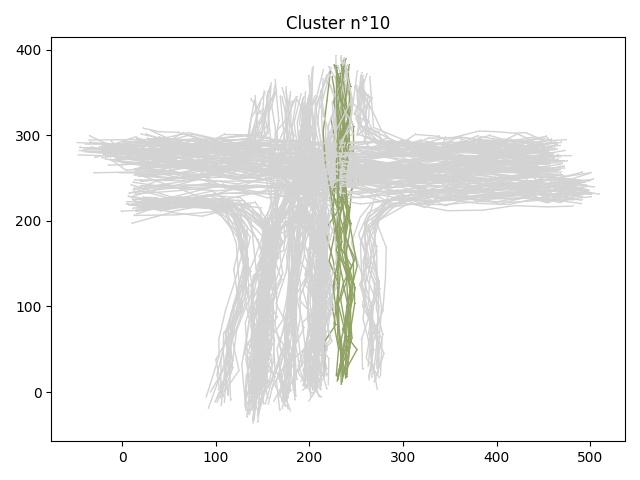
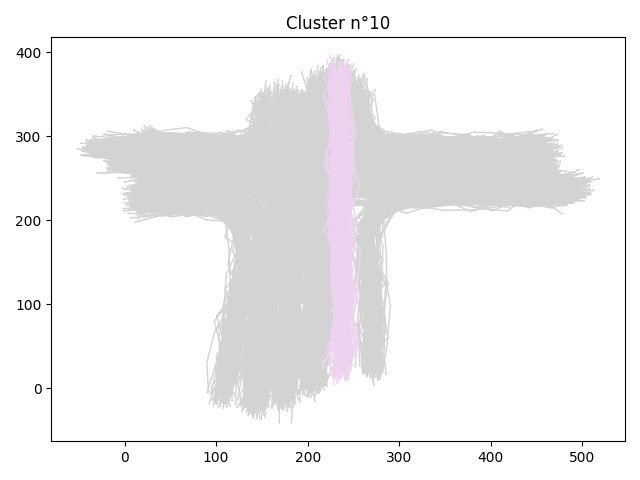
Add mean path, Fix visualizzation

diff --git a/main.py b/main.py
@@ -9,6 +9,7 @@ from tqdm import tqdm
 import argparse
 import numba
 import numpy
+from math import sqrt
 
 
 @numba.jit(nopython=True, fastmath=True)
@@ -26,7 +27,7 @@ def euclidean_distance(a, b):
     val = 0.
     for i in range(a.shape[0]):
         val += (a[i] - b[i]) ** 2
-    return val ** (1 / 2)
+    return sqrt(val)
 
 
 @numba.jit(nopython=True, fastmath=True)
@@ -270,6 +271,40 @@ def show_tracks(file_path, n=0, save_pics=True):
     plt.close()
 
 
+def mean_trajectories(tracks, labels):
+    # type: (np.ndarray, np.ndarray) -> list
+    """
+    Compute mean path from trajectories of each cluster
+    >> NOTE: To compute mean trajectories must be of the same length
+
+    :param tracks:  Trajectories
+    :param labels:  Cluster-ids
+    :return:  Mean paths
+    """
+
+    tracks_mean = []
+
+    # Compute mean trajectories
+    for i in range(max(labels)):
+        idxs = [np.where(labels == i)]
+        traj = np.mean(np.array(tracks)[np.squeeze(idxs)], axis=0)
+        tracks_mean.append(traj)
+
+    # Plot
+    fig = plt.figure()
+    plt.title('Most frequent trajectories')
+    for t in tracks_mean:
+        xs, ys = t[0], t[1]
+        color = (randint(64, 255) / 255, randint(64, 255) / 255, randint(64, 255) / 255)
+        plt.plot(xs, ys, ',-', color=color, linewidth=2)
+
+    fig.show()
+    fig.savefig("./pics/frequent_paths.jpg")
+    plt.close()
+
+    return tracks_mean
+
+
 def show_tracks_labels(file_path, labels, n=17, save_pics=True):
     # type: (str, np.ndarray, int, bool) -> None
     """
@@ -281,22 +316,24 @@ def show_tracks_labels(file_path, labels, n=17, save_pics=True):
     :return: None
     """
 
-    colors = dict()
+    color = (randint(64, 255) /255, randint(64, 255)/255, randint(64, 255)/255)
     mat = scipy.io.loadmat(file_path)
     labels = np.squeeze(labels)
 
-    for i in range(0, labels.max() +1):
-        if i == n:
-            colors[str(i)] = (randint(64, 255) /255, randint(64, 255)/255, randint(64, 255)/255)
-        else:
-            colors[str(i)] = (211 /255, 211 /255, 211 /255)
+    it_gray_paths = ((track[0], label) for track, label in zip(mat['tracks'], labels) if label != n)
+    it_color_paths = ((track[0], label) for track, label in zip(mat['tracks'], labels) if label == n)
 
     fig = plt.figure()
     plt.title('Cluster n°' + str(n))
-    for track, label in zip(mat['tracks'], labels):
-        track = track[0]
+
+    for track, label in it_gray_paths:
         xs, ys = track[0], track[1]
-        plt.plot(xs, ys, ',-', color=colors[str(label)], linewidth=1)
+        plt.plot(xs, ys, ',-', color='lightgray', linewidth=1)
+
+    for track, label in it_color_paths:
+        xs, ys = track[0], track[1]
+        plt.plot(xs, ys, ',-', color=color, linewidth=1)
+
     fig.show()
     if save_pics:
         fig.savefig("./pics/cluster_n%d.jpg" % n)
@@ -363,6 +400,9 @@ def main(args):
     print("Completeness: %0.3f" % metrics.completeness_score(np.squeeze(gt), labels))
     print("V-measure: %0.3f" % metrics.v_measure_score(np.squeeze(gt), labels))
 
+    if args.fixed_length != 0:
+        mean_trajectories(np.array(tracks), labels)
+
     for i in range(0, labels.max() +1):
         show_tracks_labels(args.data, labels, i, save_pics=args.save_pics)
 
@@ -373,15 +413,15 @@ if __name__ == '__main__':
     parser.add_argument('--data', type=str,
                         help='File containing data', default='ds/cross.mat')
     parser.add_argument('--num_samples', type=int,
-                        help='Use n_samples from data', default=300)
+                        help='Use n_samples from data (0: use all data)', default=0)
     parser.add_argument('--method', type=str,
-                        help='Clustering method', default='kmeans')
+                        help='Clustering method ( kmeans | spectral )', default='kmeans')
     parser.add_argument('--n_cluster', type=int,
                         help='Number of clusters', default=15)
     parser.add_argument('--fixed_length', type=int,
                         help='Resample trajectories to fixed length', default=100)
     parser.add_argument('--flow', type=bool,
-                        help='Convert trajectories to flow before clustering', default=False)
+                        help='Convert trajectories to flow before clustering', default=True)
     parser.add_argument('--flow_th', type=float,
                         help='Filter flow using a threeshold', default=0.)
     parser.add_argument('--distance_function', type=str,
@@ -389,7 +429,7 @@ if __name__ == '__main__':
     parser.add_argument('--sigma', type=int,
                         help='Sigma value in gaussian kernel', default=15)
     parser.add_argument('--save_pics', type=bool,
-                        help='Save figures', default=False)
+                        help='Save figures', default=True)
 
     args = parser.parse_args()
     print(args)
